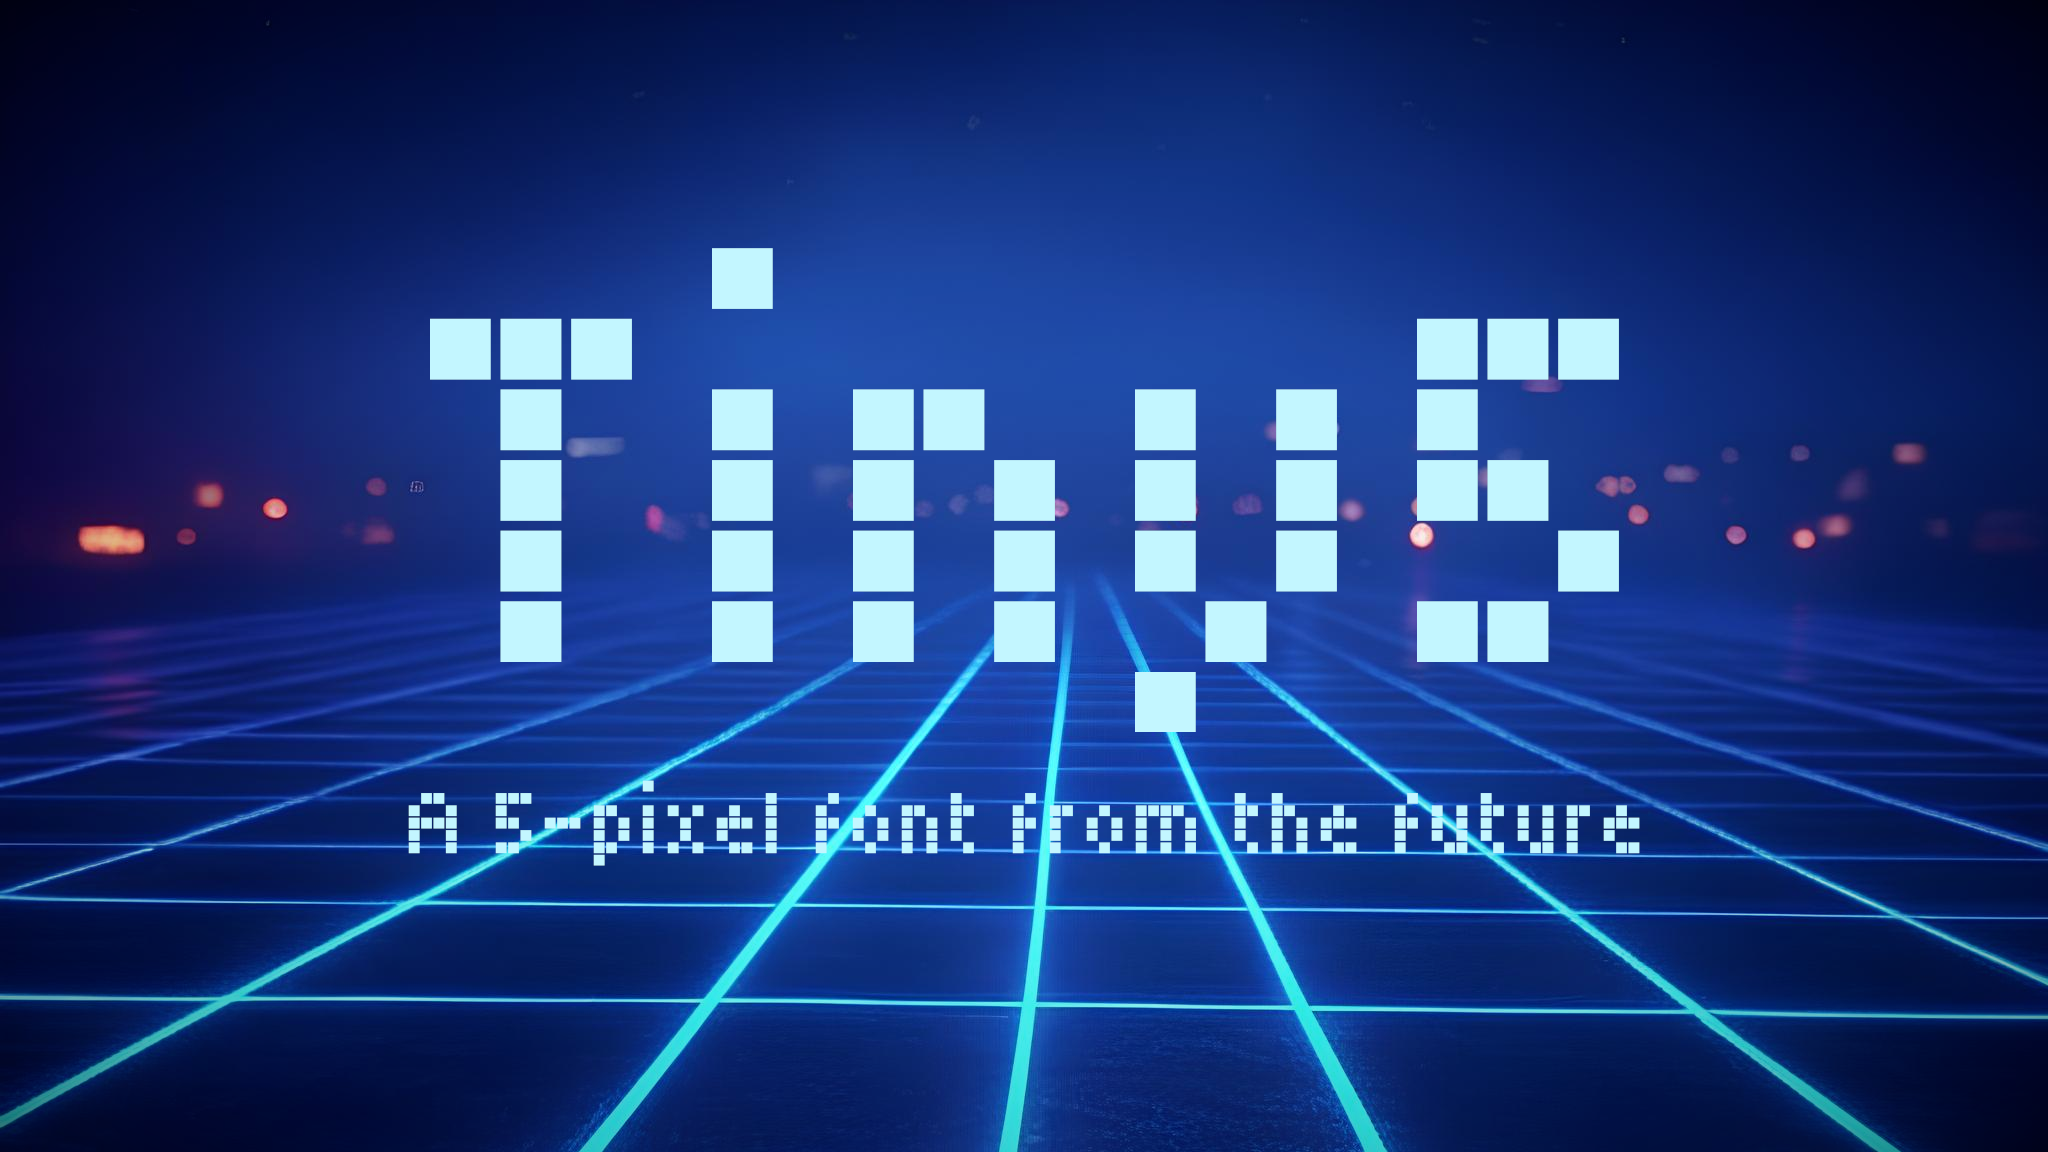
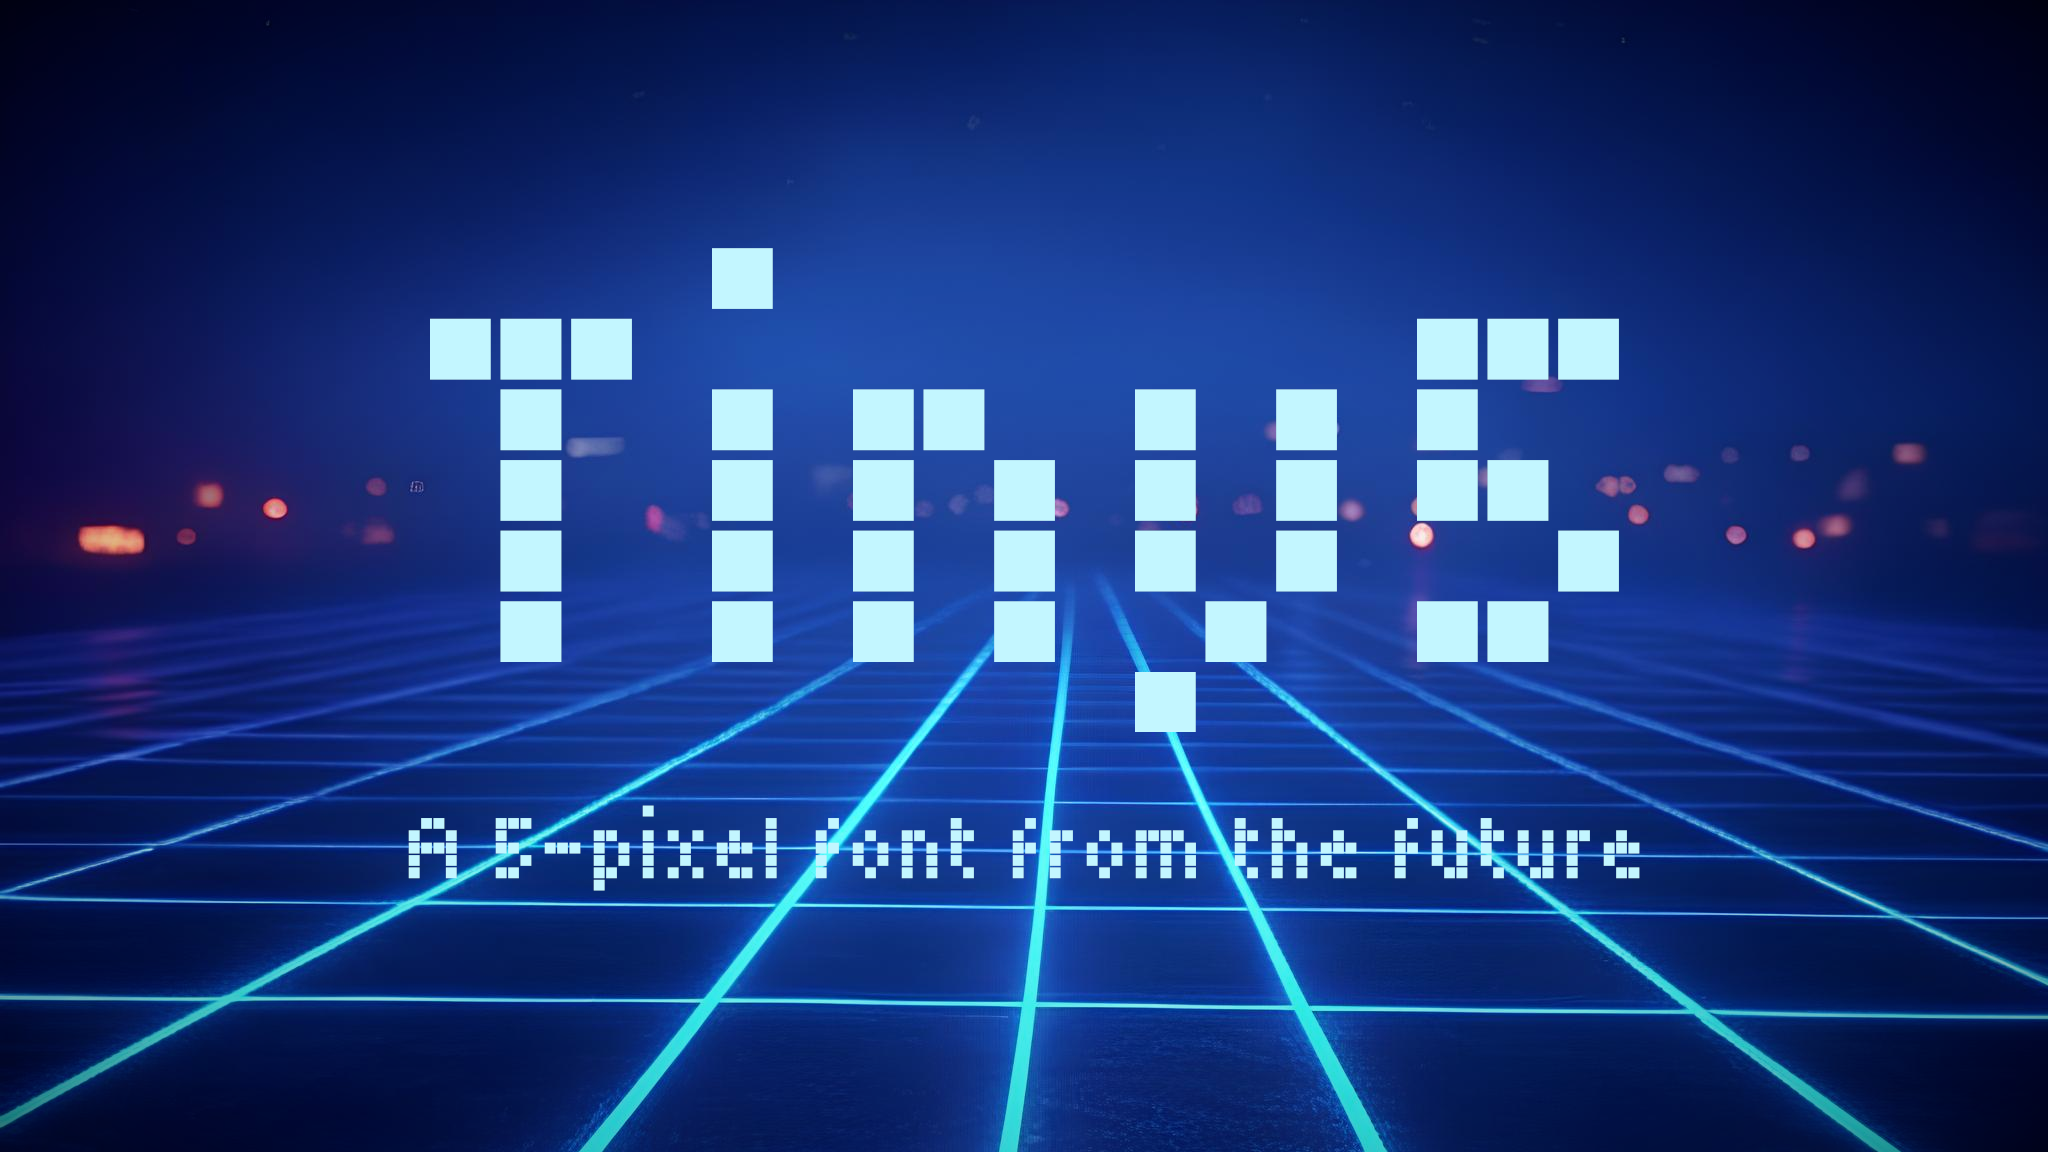
2.0.0

Changed region(s): [[0.1875, 0.6875, 0.8125, 0.7812]]

diff --git a/scripts/bdf2ufo.py b/scripts/bdf2ufo.py
@@ -430,7 +430,7 @@ def load_bdf(path, config):
 
             if modifier_codepoint in bdf_codepoints and\
                     combining_codepoint not in bdf_codepoints and\
-                match_codepoint(codepoint_subset, combining_codepoint):
+            match_codepoint(codepoint_subset, combining_codepoint):
                 modifier_name = bdf_codepoints[modifier_codepoint]
                 modifier_glyph = bdf_glyphs[modifier_name]
 
@@ -530,6 +530,8 @@ def load_bdf(path, config):
         subscript_y = get_bdf_property(
             bdf, 'SUBSCRIPT_Y', None)
 
+        grid_scale_x = 1
+        grid_scale_y = 1
         units_per_em = 1024
 
         if 'family_name' in config:
@@ -574,6 +576,14 @@ def load_bdf(path, config):
             strikeout_position = config['strikeout_position']
         if 'strikeout_thickness' in config:
             strikeout_thickness = config['strikeout_thickness']
+        if 'strikeout_thickness' in config:
+            strikeout_thickness = config['strikeout_thickness']
+        if 'strikeout_thickness' in config:
+            strikeout_thickness = config['strikeout_thickness']
+        if 'grid_scale_x' in config:
+            grid_scale_x = config['grid_scale_x']
+        if 'grid_scale_y' in config:
+            grid_scale_y = config['grid_scale_y']
         if 'units_per_em' in config:
             units_per_em = config['units_per_em']
 
@@ -591,6 +601,10 @@ def load_bdf(path, config):
             subscript_y = cap_height - subscript_size
 
         units_per_pixel = int(units_per_em / point_size)
+        units_per_grid_scale_x = int(
+            grid_scale_x * units_per_em / point_size)
+        units_per_grid_scale_y = int(
+            grid_scale_y * units_per_em / point_size)
 
         bdf_font = {}
         bdf_font['version'] = version
@@ -629,6 +643,8 @@ def load_bdf(path, config):
 
         bdf_font['units_per_em'] = units_per_em
         bdf_font['units_per_pixel'] = units_per_pixel
+        bdf_font['units_per_grid_scale_x'] = units_per_grid_scale_x
+        bdf_font['units_per_grid_scale_y'] = units_per_grid_scale_y
 
         bdf_font['glyphs'] = bdf_glyphs
         bdf_font['codepoints'] = bdf_codepoints
@@ -677,29 +693,34 @@ def set_ufo_info(ufo_font, bdf_font):
     unique_id = manufacturer + ': ' + font_name
 
     units_per_em = bdf_font['units_per_em']
-    units_per_pixel = bdf_font['units_per_pixel']
+    units_per_grid_scale_x = bdf_font['units_per_grid_scale_x']
+    units_per_grid_scale_y = bdf_font['units_per_grid_scale_y']
 
-    line_ascender = bdf_font['ascent'] * units_per_pixel
-    line_descender = -bdf_font['descent'] * units_per_pixel
+    line_ascender = bdf_font['ascent'] * units_per_grid_scale_y
+    line_descender = -bdf_font['descent'] * units_per_grid_scale_y
     line_height = line_ascender - line_descender
     em_descender = line_descender - int((units_per_em - line_height) / 2)
     em_ascender = units_per_em + em_descender
     boundingbox_ascender = max(
-        bdf_font['boundingbox'][1][0] * units_per_pixel, 0)
+        bdf_font['boundingbox'][1][0] * units_per_grid_scale_y, 0)
     boundingbox_descender = max(
-        -bdf_font['boundingbox'][0][0] * units_per_pixel, 0)
-    cap_height = bdf_font['cap_height'] * units_per_pixel
-    x_height = bdf_font['x_height'] * units_per_pixel
-    underline_position = bdf_font['underline_position'] * units_per_pixel
-    underline_thickness = bdf_font['underline_thickness'] * units_per_pixel
-    strikeout_position = bdf_font['strikeout_position'] * units_per_pixel
-    strikeout_thickness = bdf_font['strikeout_thickness'] * units_per_pixel
-    superscript_x = bdf_font['superscript_x'] * units_per_pixel
-    superscript_y = bdf_font['superscript_y'] * units_per_pixel
+        -bdf_font['boundingbox'][0][0] * units_per_grid_scale_y, 0)
+    cap_height = bdf_font['cap_height'] * units_per_grid_scale_y
+    x_height = bdf_font['x_height'] * units_per_grid_scale_y
+    underline_position = bdf_font['underline_position'] * \
+        units_per_grid_scale_y
+    underline_thickness = bdf_font['underline_thickness'] * \
+        units_per_grid_scale_y
+    strikeout_position = bdf_font['strikeout_position'] * \
+        units_per_grid_scale_y
+    strikeout_thickness = bdf_font['strikeout_thickness'] * \
+        units_per_grid_scale_y
+    superscript_x = bdf_font['superscript_x'] * units_per_grid_scale_x
+    superscript_y = bdf_font['superscript_y'] * units_per_grid_scale_y
     superscript_size = int(
         bdf_font['superscript_size'] / bdf_font['cap_height'] * units_per_em)
-    subscript_x = bdf_font['subscript_x'] * units_per_pixel
-    subscript_y = bdf_font['subscript_y'] * units_per_pixel
+    subscript_x = bdf_font['subscript_x'] * units_per_grid_scale_x
+    subscript_y = bdf_font['subscript_y'] * units_per_grid_scale_y
     subscript_size = int(
         bdf_font['subscript_size'] / bdf_font['cap_height'] * units_per_em)
 
@@ -995,6 +1016,8 @@ def add_ufo_bitmap(ufo_glyph,
                    bdf_font,
                    bdf_glyph):
     units_per_pixel = bdf_font['units_per_pixel']
+    units_per_grid_scale_x = bdf_font['units_per_grid_scale_x']
+    units_per_grid_scale_y = bdf_font['units_per_grid_scale_y']
 
     bdf_bitmap = bdf_glyph['bitmap']
     bdf_glyph_offset = bdf_glyph['offset']
@@ -1007,8 +1030,8 @@ def add_ufo_bitmap(ufo_glyph,
     for y in range(bdf_bitmap.shape[0]):
         for x in range(bdf_bitmap.shape[1]):
             if bdf_bitmap[y][x]:
-                ufo_y = units_per_pixel * (bdf_glyph_offset[0] + y + 0.5)
-                ufo_x = units_per_pixel * (bdf_glyph_offset[1] + x + 0.5)
+                ufo_y = units_per_grid_scale_y * (bdf_glyph_offset[0] + y + 0.5)
+                ufo_x = units_per_grid_scale_x * (bdf_glyph_offset[1] + x + 0.5)
 
                 ufo_points = []
                 for point_offset, point_type in points:
@@ -1025,7 +1048,8 @@ def add_ufo_bitmap(ufo_glyph,
 def add_ufo_components(ufo_glyph,
                        bdf_font,
                        components):
-    units_per_pixel = bdf_font['units_per_pixel']
+    units_per_grid_scale_x = bdf_font['units_per_grid_scale_x']
+    units_per_grid_scale_y = bdf_font['units_per_grid_scale_y']
     bdf_glyphs = bdf_font['glyphs']
 
     for component in components:
@@ -1040,8 +1064,8 @@ def add_ufo_components(ufo_glyph,
         if delta != (0, 0):
             ufo_component.transformation = [
                 1, 0, 0, 1,
-                delta[1] * units_per_pixel,
-                delta[0] * units_per_pixel]
+                delta[1] * units_per_grid_scale_x,
+                delta[0] * units_per_grid_scale_y]
 
         ufo_glyph.components.append(ufo_component)
 
@@ -1131,7 +1155,8 @@ def add_anchors(anchors,
 
 
 def set_ufo_anchors(ufo_font, bdf_font, anchors):
-    units_per_pixel = bdf_font['units_per_pixel']
+    units_per_grid_scale_x = bdf_font['units_per_grid_scale_x']
+    units_per_grid_scale_y = bdf_font['units_per_grid_scale_y']
     bdf_glyphs = bdf_font['glyphs']
     bdf_codepoints = bdf_font['codepoints']
 
@@ -1149,8 +1174,8 @@ def set_ufo_anchors(ufo_font, bdf_font, anchors):
             anchor_offset = component_anchors[anchor_name]
 
             anchor = ufoLib2.objects.Anchor(
-                anchor_offset[1] * units_per_pixel,
-                anchor_offset[0] * units_per_pixel,
+                anchor_offset[1] * units_per_grid_scale_x,
+                anchor_offset[0] * units_per_grid_scale_y,
                 anchor_name)
 
             ufo_glyph.appendAnchor(anchor)
@@ -1224,8 +1249,8 @@ def set_ufo_anchors(ufo_font, bdf_font, anchors):
             mark_class = fontTools.feaLib.ast.MarkClassDefinition(
                 fontTools.feaLib.ast.MarkClass(anchor_name),
                 fontTools.feaLib.ast.Anchor(
-                    anchor_offset[1] * units_per_pixel,
-                    anchor_offset[0] * units_per_pixel),
+                    anchor_offset[1] * units_per_grid_scale_x,
+                    anchor_offset[0] * units_per_grid_scale_y),
                 glyphs
             )
             mark_lookup.statements.append(mark_class)
@@ -1240,8 +1265,8 @@ def set_ufo_anchors(ufo_font, bdf_font, anchors):
                 anchor_name, anchor_offset = anchor_name_offset
                 marks.append((
                     fontTools.feaLib.ast.Anchor(
-                        anchor_offset[1] * units_per_pixel,
-                        anchor_offset[0] * units_per_pixel),
+                        anchor_offset[1] * units_per_grid_scale_x,
+                        anchor_offset[0] * units_per_grid_scale_y),
                     fontTools.feaLib.ast.MarkClass(anchor_name)
                 ))
 
@@ -1274,7 +1299,7 @@ def set_ufo_anchors(ufo_font, bdf_font, anchors):
 
 def add_ufo_glyphs(ufo_font, bdf_font):
     bdf_glyphs = bdf_font['glyphs']
-    units_per_pixel = bdf_font['units_per_pixel']
+    units_per_grid_scale_y = bdf_font['units_per_grid_scale_y']
 
     anchors = {}
 
@@ -1286,7 +1311,7 @@ def add_ufo_glyphs(ufo_font, bdf_font):
         ufo_glyph = ufo_font.newGlyph(composed_name)
         if composed_codepoint != 0:
             ufo_glyph.unicode = composed_codepoint
-        ufo_glyph.width = composed_advance * units_per_pixel
+        ufo_glyph.width = composed_advance * units_per_grid_scale_y
 
         components = decompose_bdf_glyph(bdf_font, composed_name)
 
@@ -1373,13 +1398,13 @@ def write_designspace(path, bdf_font):
             })
 
     doc.addInstance(
-        get_designspace_instance(family_name, style_name + '', 100, 0, 0))
+        get_designspace_instance(family_name, style_name, 100, 0, 0))
     doc.addInstance(
-        get_designspace_instance(family_name, style_name + ' LCD', 85, 0, 0))
+        get_designspace_instance(family_name + ' LCD', style_name, 85, 0, 0))
     doc.addInstance(
-        get_designspace_instance(family_name, style_name + ' DotMatrix', 85, 80, 0))
+        get_designspace_instance(family_name + ' DotMatrix', style_name, 85, 80, 0))
     doc.addInstance(
-        get_designspace_instance(family_name, style_name + ' CRT', 70, 60, 60))
+        get_designspace_instance(family_name + ' CRT', style_name, 70, 60, 60))
 
     doc.write(designspace_path)
 
@@ -1471,6 +1496,12 @@ def main():
     parser.add_argument('--underline-thickness',
                         type=int,
                         help='sets the font underline width in pixels')
+    parser.add_argument('--grid-scale-x',
+                        type=float,
+                        help='sets the x-axis pixel grid scale (default: 1)')
+    parser.add_argument('--grid-scale-y',
+                        type=float,
+                        help='sets the y-axis pixel grid scale (default: 1)')
 
     parser.add_argument('input',
                         help='the .bdf file to be converted')
@@ -1531,6 +1562,10 @@ def main():
         config['underline_position'] = args.underline_position
     if args.underline_thickness != None:
         config['underline_thickness'] = args.underline_thickness
+    if args.grid_scale_x != None:
+        config['grid_scale_x'] = args.grid_scale_x
+    if args.grid_scale_y != None:
+        config['grid_scale_y'] = args.grid_scale_y
 
     print('Loading BDF font...')
     bdf_font = load_bdf(args.input, config)
